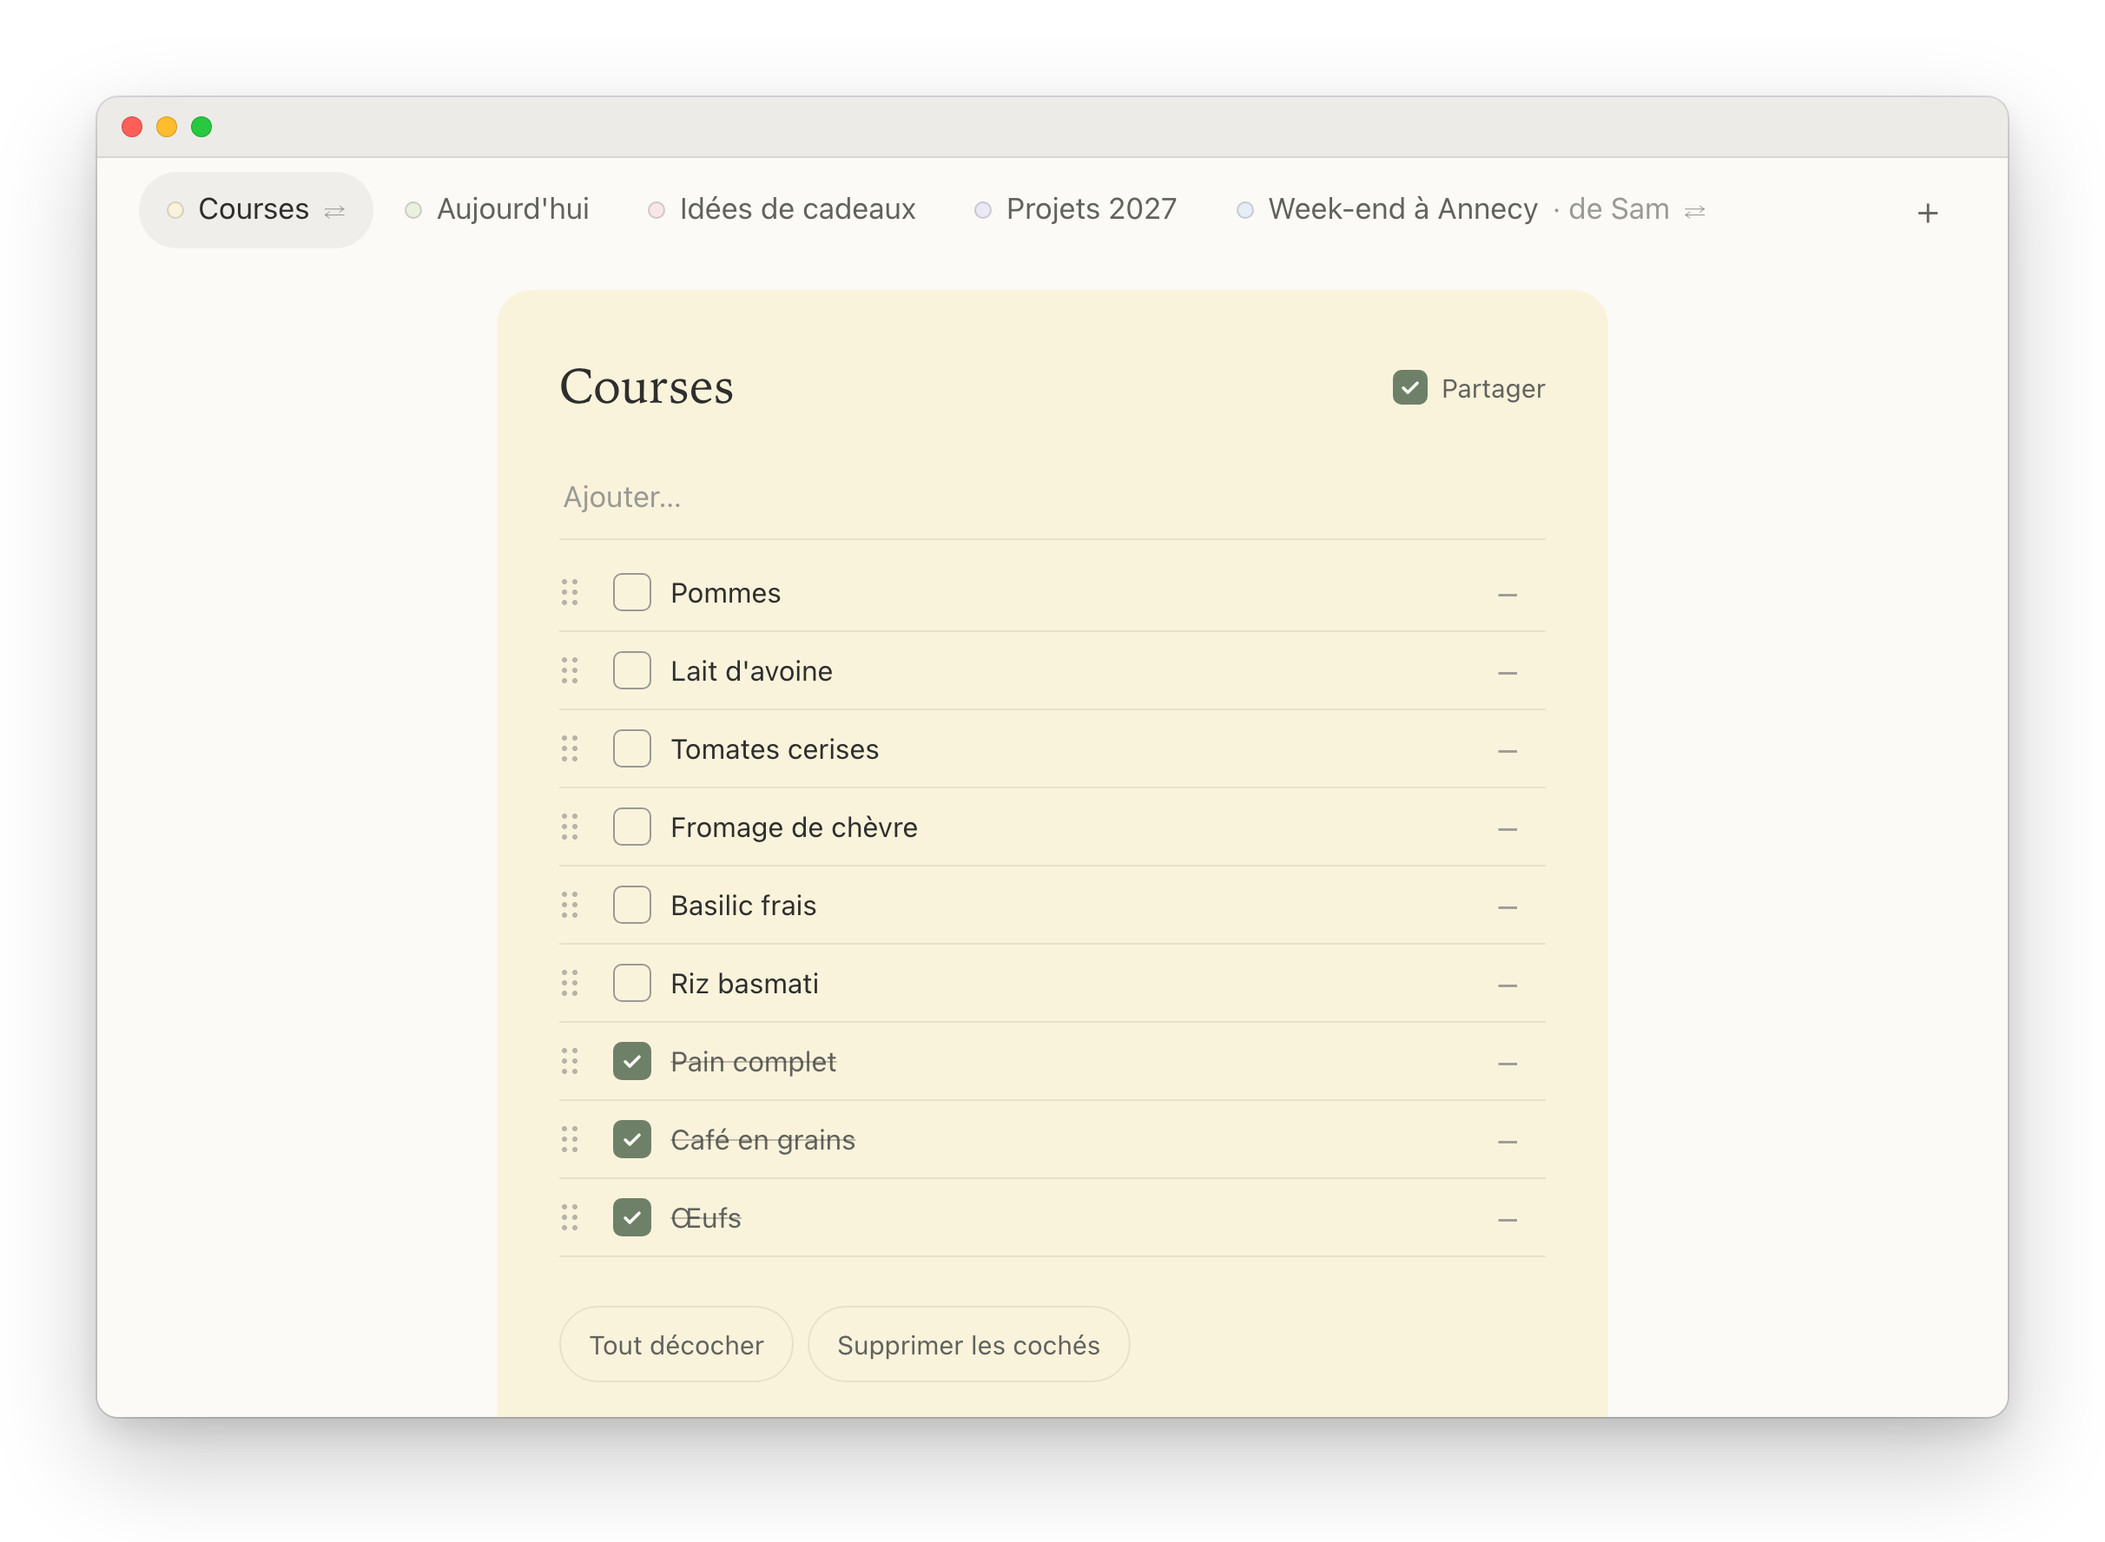
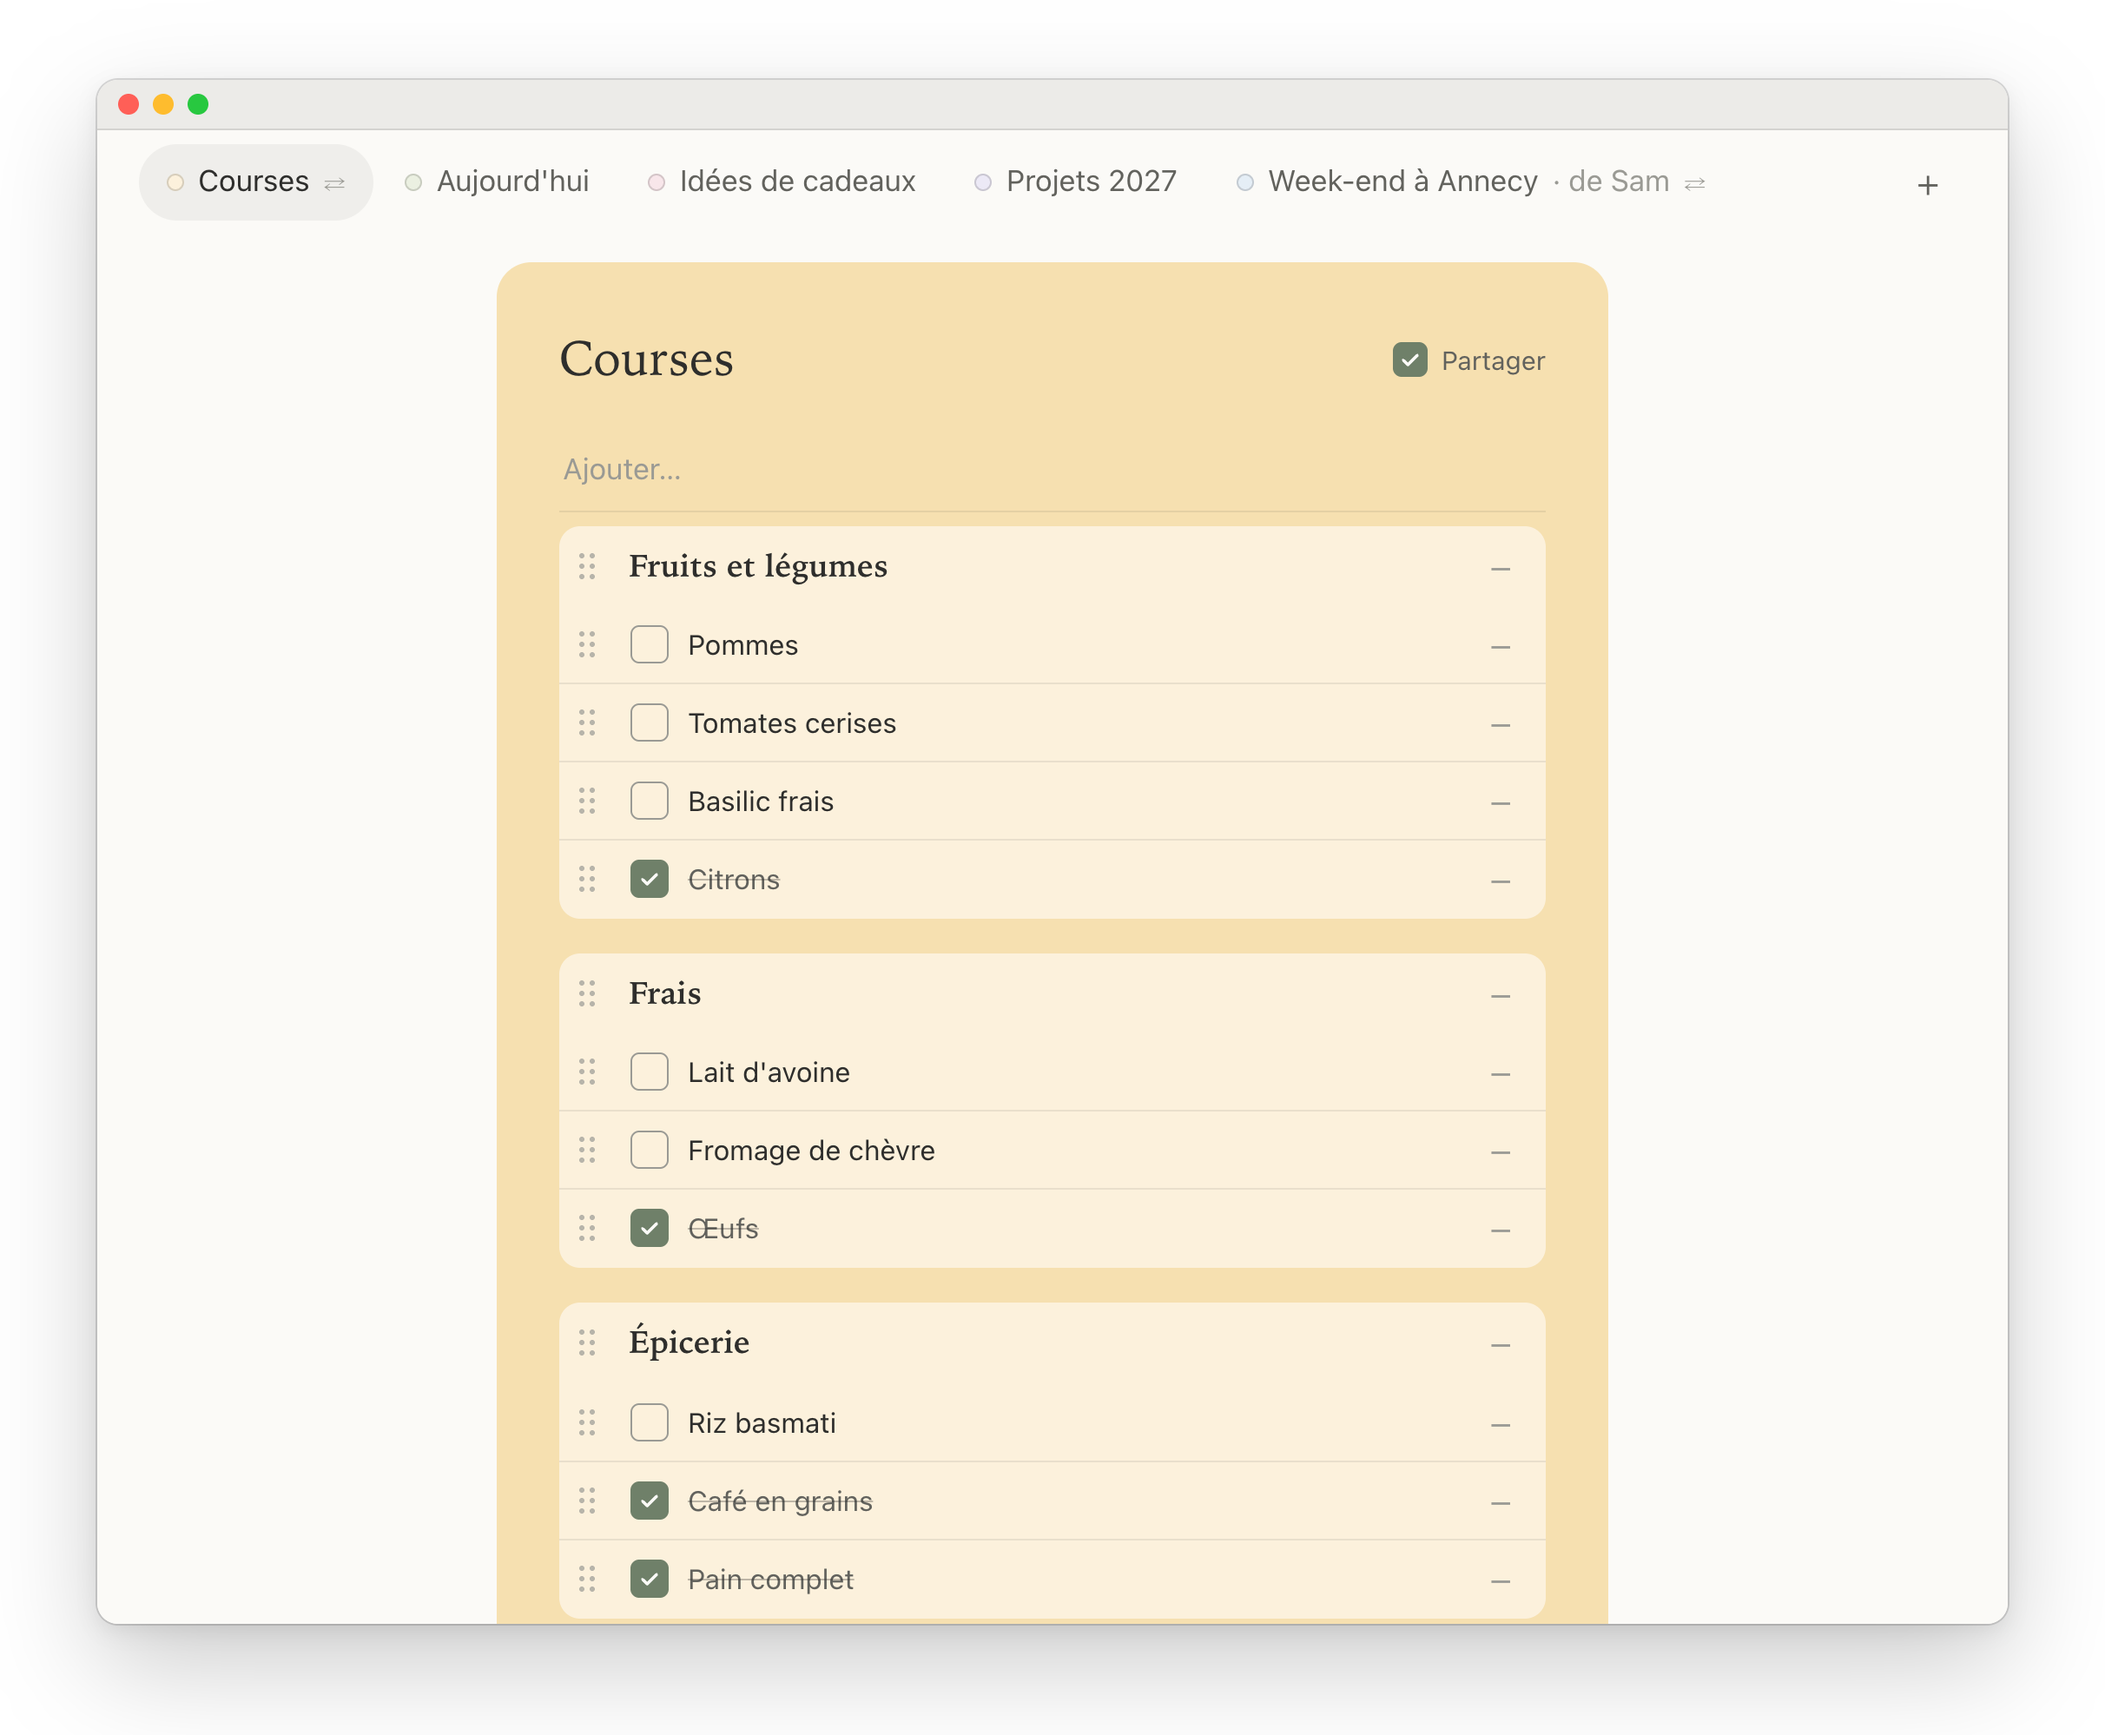
README : nouvelles captures, avec catégories et panneau des listes sur téléphone
Les trois captures sont refaites sur des données inventées : listes rangées par
catégories (dont une rayée, tous ses éléments cochés) ; sur téléphone, le titre
« Courses ⌄ » et le panneau des listes ouvert en bas de l'écran. Le README
décrit ce panneau.

Changed region(s): [[0.0309, 0.0929, 0.9592, 0.96], [0.0619, 0.031, 0.1547, 0.1548]]

diff --git a/README.md b/README.md
@@ -3,7 +3,7 @@
 Des listes à cocher, partagées en temps réel, à auto-héberger. Courses, choses à faire aujourd'hui,
 projets de l'année : chaque liste n'est qu'une suite de cases à cocher, toujours modifiable.
 
-![Une liste de courses : éléments à cocher, cochés en bas, onglets des autres listes en haut](docs/screenshots/courses.png)
+![Une liste de courses rangée par catégories (fruits et légumes, frais, épicerie) : éléments à cocher, cochés en bas de leur catégorie, onglets des autres listes en haut](docs/screenshots/courses.png)
 
 - Plusieurs listes, plusieurs comptes. Une liste est privée par défaut ; la case « Partager » la
   rend visible par tous les comptes de l'instance. Chacun peut alors la renommer et en modifier les
@@ -19,13 +19,15 @@ projets de l'année : chaque liste n'est qu'une suite de cases à cocher, toujou
 - Temps réel : une case cochée sur un téléphone apparaît sur l'autre en moins d'une seconde.
 - Hors ligne : l'appli s'ouvre sans réseau sur les dernières listes vues, et les actions faites
   sans réseau sont renvoyées au retour de la connexion.
+- Sur téléphone, le titre de la liste ouvre un panneau, en bas de l'écran, avec toutes les listes
+  et le nombre d'éléments à faire de chacune ; on le replie en tirant sa poignée vers le bas.
 - Appli web installable sur l'écran d'accueil (iOS, Android), interface en français.
 - Un binaire Go statique et une base SQLite : moins de 30 Mo de RAM, image d'environ 16 Mo.
 
-![Une liste partagée par un autre compte : même liste, modifiable par les deux](docs/screenshots/liste-partagee.png)
+![Une liste partagée par un autre compte, en catégories : même liste, modifiable par les deux ; une catégorie dont tous les éléments sont cochés est rayée](docs/screenshots/liste-partagee.png)
 
 <p align="center">
-  <img src="docs/screenshots/telephone.png" width="620" alt="Sur téléphone : la liste de courses et la liste du jour, onglets en haut, cases à cocher à portée de pouce">
+  <img src="docs/screenshots/telephone.png" width="620" alt="Sur téléphone : la liste de courses en catégories, puis le panneau des listes ouvert en bas de l'écran, avec le nombre d'éléments à faire de chacune">
 </p>
 
 Captures faites sur des données inventées.
